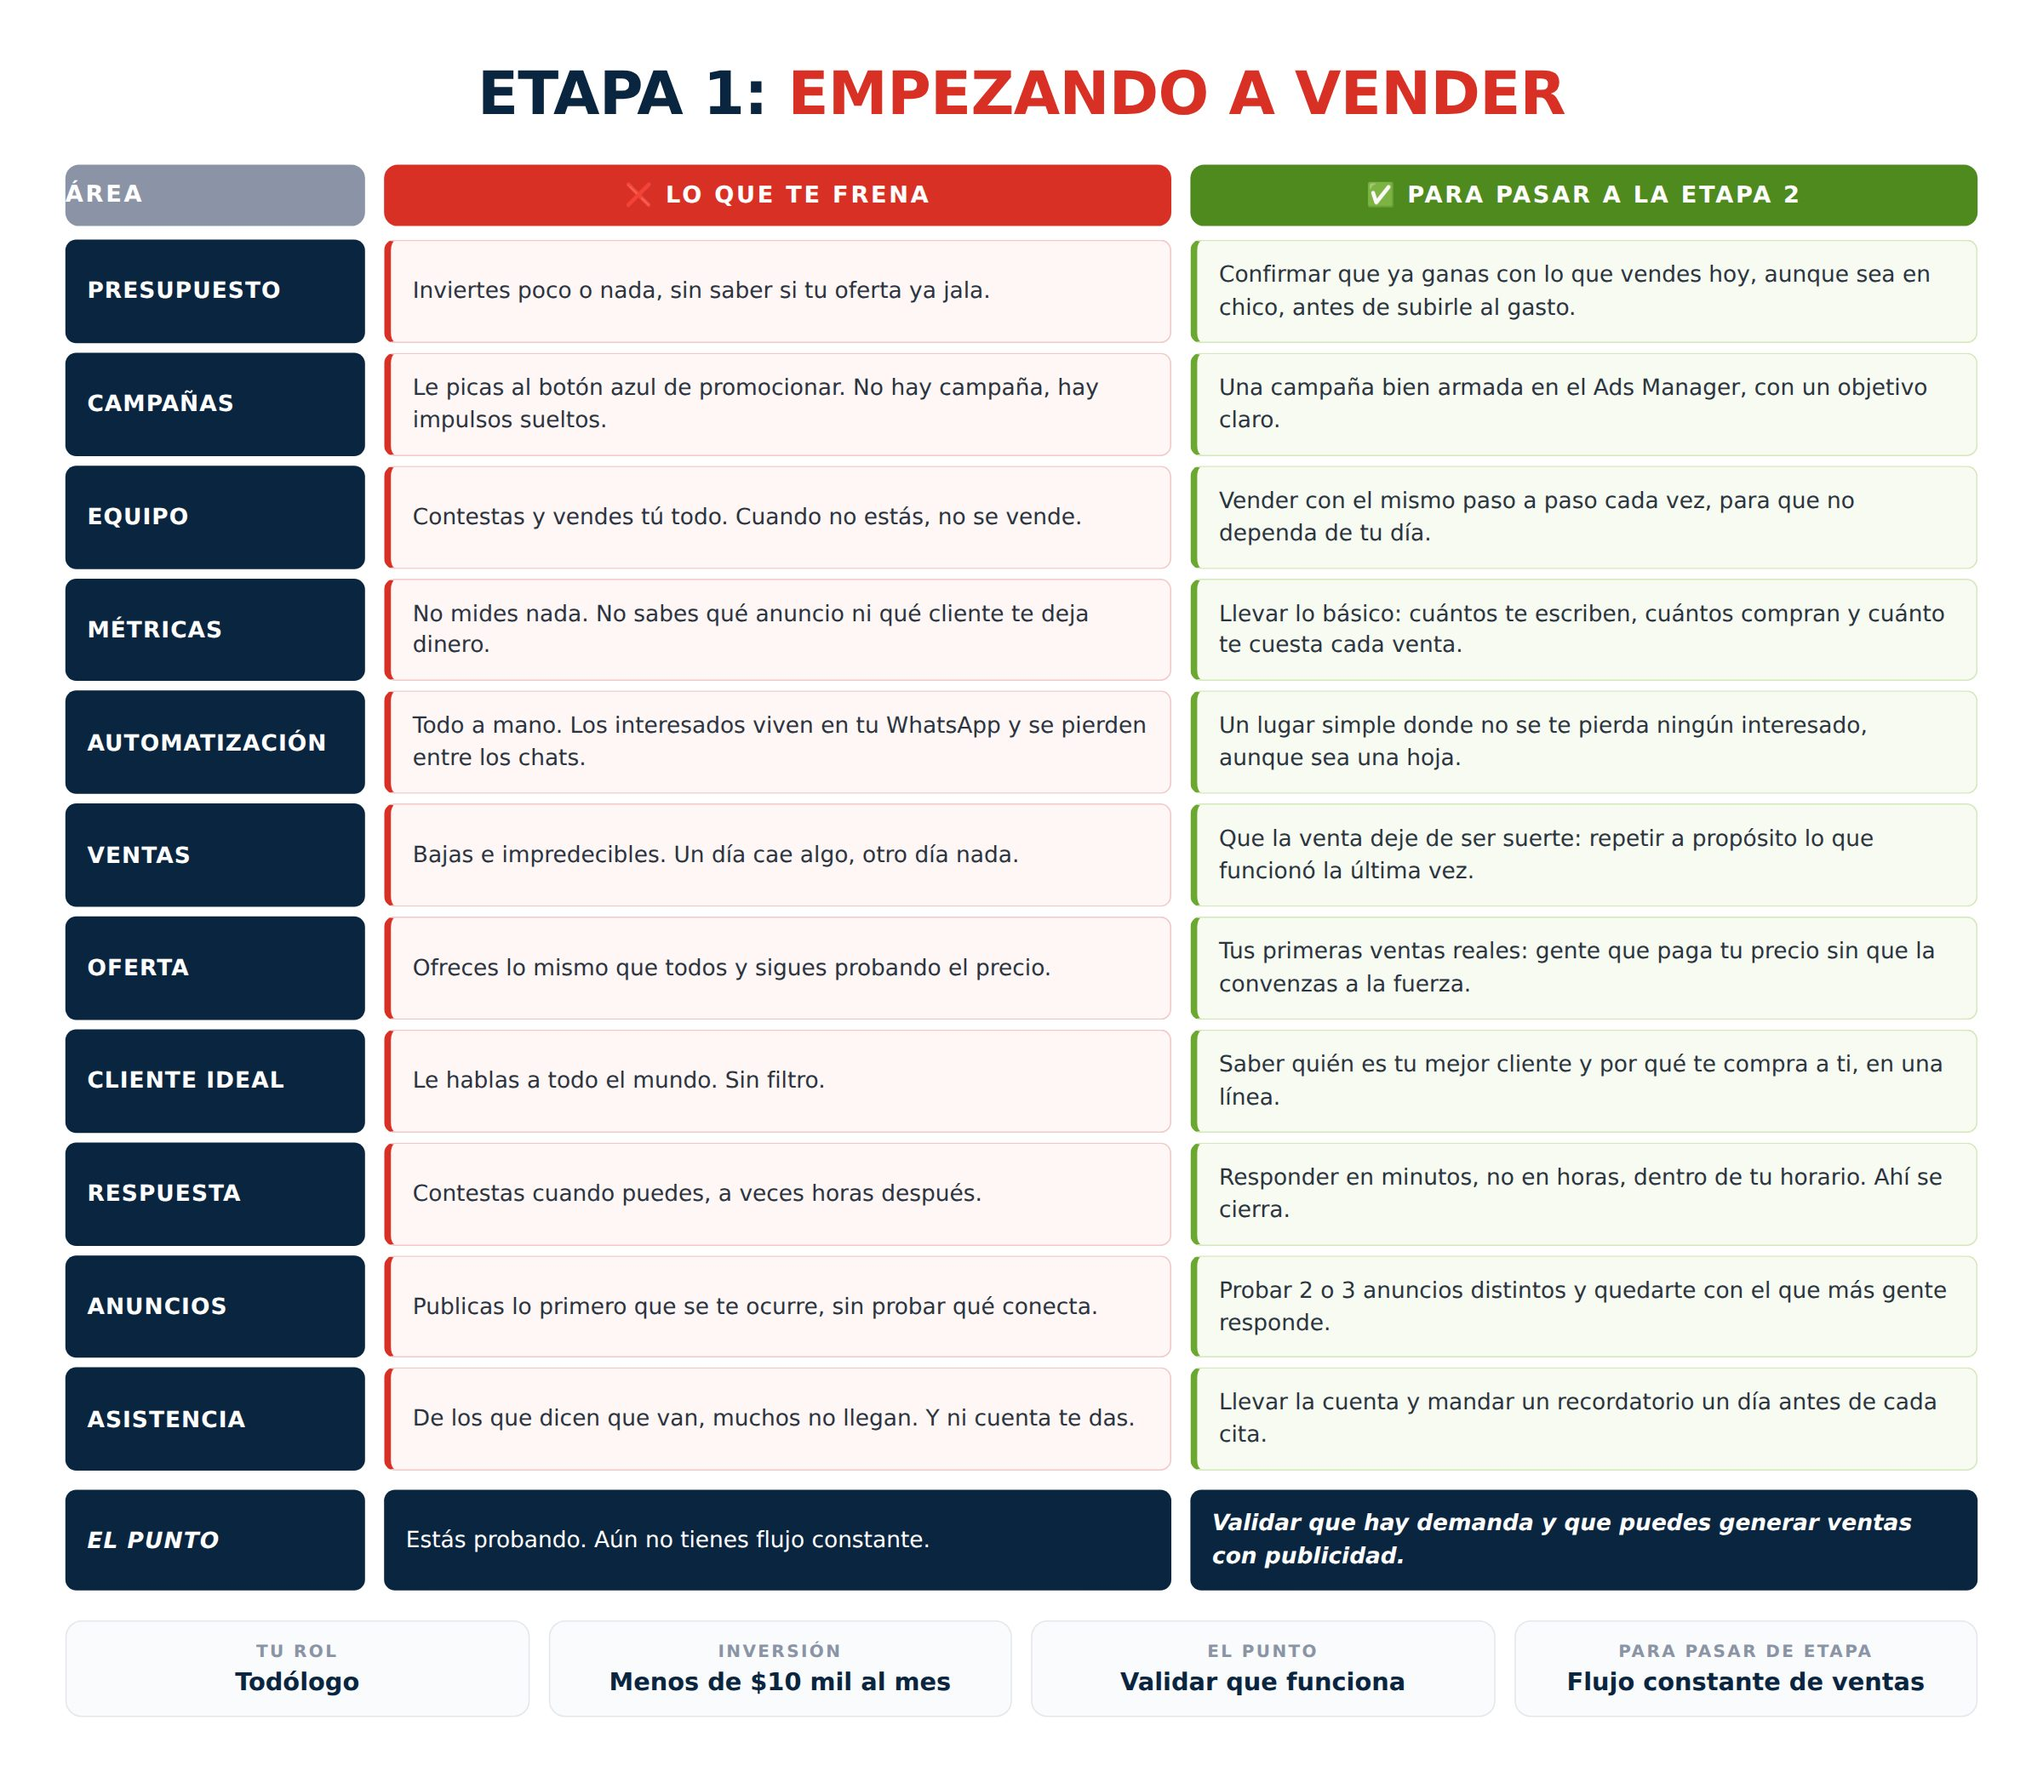
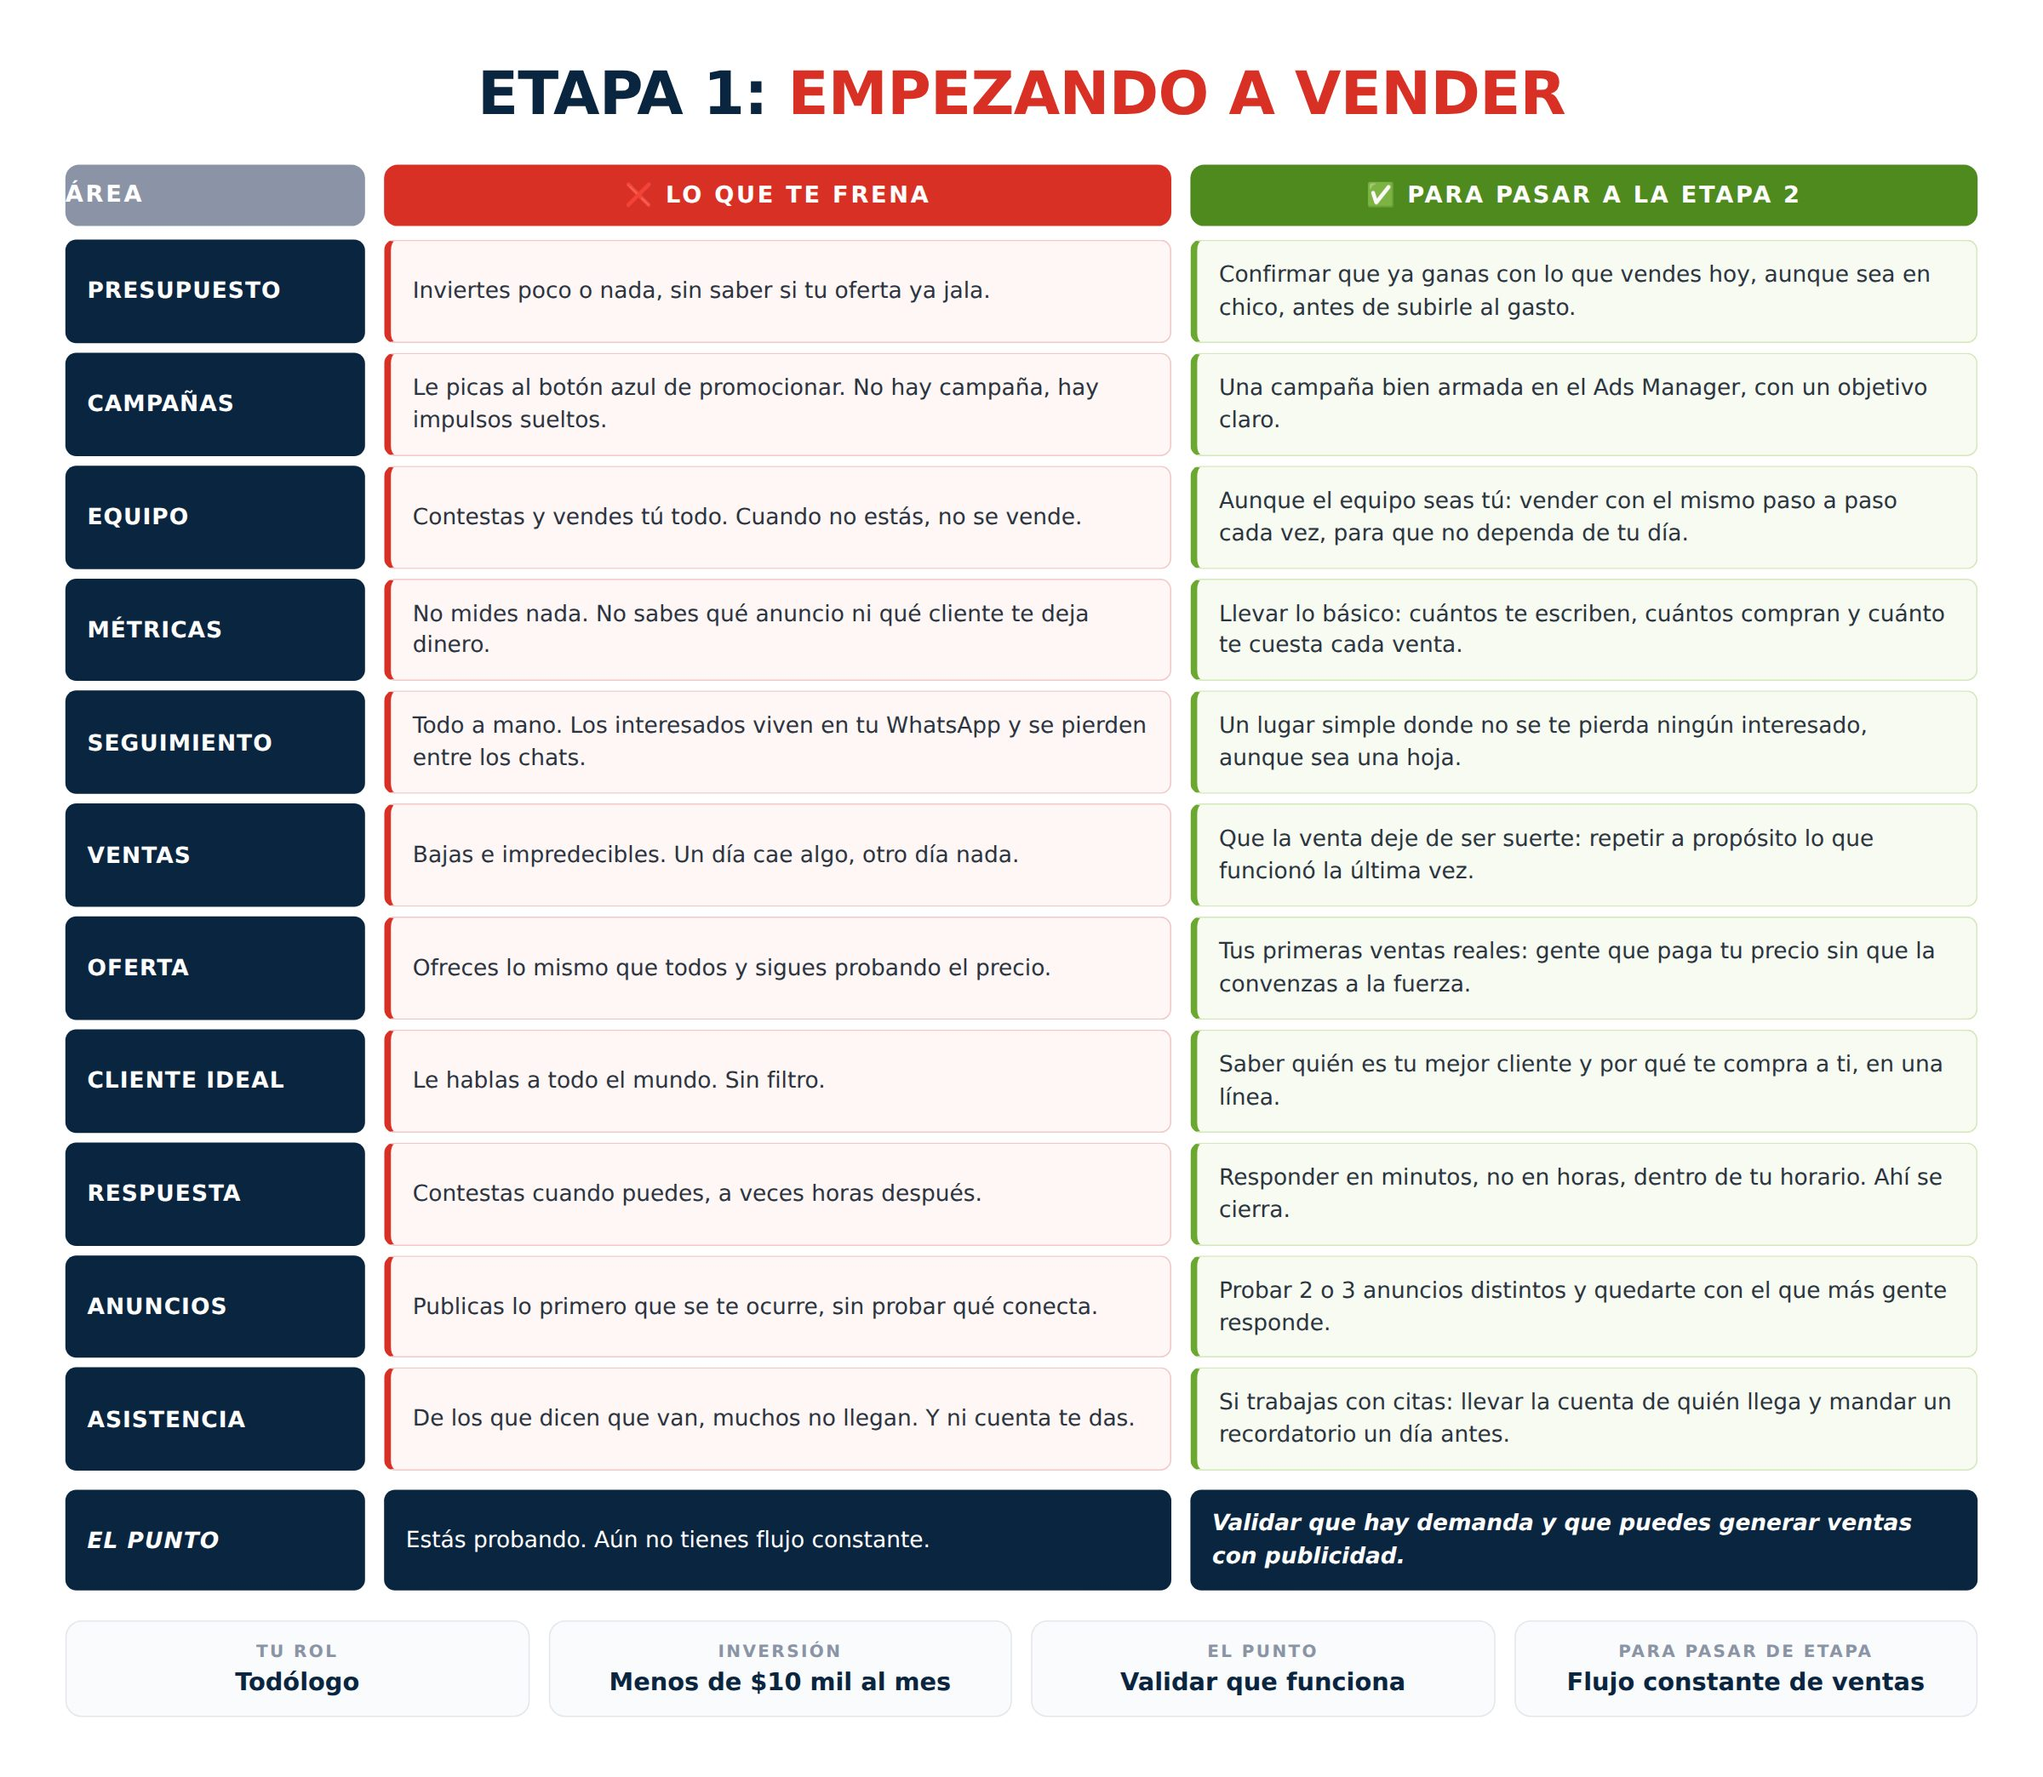
Add files via upload

Changed region(s): [[0.5938, 0.7783, 0.9375, 0.8094], [0.5938, 0.2802, 0.9062, 0.3113], [0.0312, 0.4047, 0.1562, 0.4358]]

diff --git a/v32.html b/v32.html
@@ -533,6 +533,11 @@ body.has-bar{padding-bottom:74px}
 .mapa-scroll img.big{width:220%}
 .mapa-tip{margin:0;padding:8px 12px;text-align:center;color:#fff;font-size:12px;opacity:.85}
 #engrane-root .u-ofhook{margin:4px 0 0;font-size:15px;font-style:italic;color:var(--navy);line-height:1.45}
+#engrane-root .it .ej{margin-top:6px;font-size:13px;line-height:1.45;color:#5b6675}
+#engrane-root .it .ej b{color:var(--navy)}
+#engrane-root .it.tengo .ej{color:#a0a8b4}
+#engrane-root .it .fb{margin-top:8px;font-size:13px;line-height:1.45;color:var(--navy);background:#fff;border:1px dashed #F2C9C9;border-radius:8px;padding:8px 10px}
+#engrane-root .it .fb .fb-go{color:var(--red);font-weight:800;text-decoration:none}
 #engrane-root .u-ofk{font-size:11px;font-weight:800;letter-spacing:.12em;text-transform:uppercase;color:var(--navy);margin:12px 0 3px}
 #engrane-root .u-oftx{margin:0;font-size:15px;line-height:1.55;color:var(--ink)}
 #engrane-root .u-offor{margin-top:10px;padding:10px 12px;background:rgba(10,37,64,.04);border-radius:10px;font-size:14px}
@@ -644,7 +649,7 @@ const CONFIG = {
         <h3 class="chk-h">Tu checklist para pasar a la etapa 2</h3>
         <p class="chk-sub">Es la columna derecha de tu mapa, en lista.</p>
         <p class="chk-prog" id="chkProg"></p>
-        <div class="chk-how"><b>Cómo se usa:</b> en cada punto toca <span class="mini-t">Ya lo tengo</span> o <span class="mini-a">Quiero ayuda</span>. Regresa cuando quieras: aquí se te guarda. El mapa también va en tu correo.</div>
+        <div class="chk-how"><b>Cómo se usa:</b> en cada punto toca <span class="mini-t">Ya lo resolví</span> o <span class="mini-a">Ayúdame con esto</span>. Regresa cuando quieras: aquí se te guarda. El mapa también va en tu correo.</div>
         <div class="chl" id="chkList"></div>
         <div class="pide-res" id="pideRes"></div>
       </div>
@@ -720,7 +725,7 @@ const QUIZ = [
  {id:"b4_metricas", area:"Métricas", q:"¿Cuáles de estos números me puedes decir ahorita, sin buscarlos?", multi:true,
   items:["Cuánto me cuesta un cliente que paga (no un mensaje)","De cada 10 que me escriben, cuántos compran","Cuántas veces recupero lo que meto en ads","De cada venta, de qué anuncio salió","Cuánto me queda limpio al final"],
   opts:["No mido nada","Solo cuántos leads y cuántas ventas","Costo por lead y por cliente, pero no cuánto me deja cada cliente","Tengo control completo de mis números"]},
- {id:"b5_automatizacion", area:"Automatización", q:"El seguimiento a los que te escriben, ¿cómo lo llevas?",
+ {id:"b5_automatizacion", area:"Seguimiento", q:"El seguimiento a los que te escriben, ¿cómo lo llevas?",
   opts:["Todo a mano, me acuerdo o lo apunto","Lo llevo en un Google Sheet o parecido, sin CRM","Tengo un CRM básico","Tengo un CRM con seguimiento automático"]},
  {id:"b6_ventas", area:"Ventas", q:"¿Puedes saber más o menos cuánto vas a vender el mes que entra?",
   opts:["Ni idea, cada mes es distinto","Más o menos, pero con altibajos","Buen volumen, pero con picos y valles","Sí, le atino"]},
@@ -1878,17 +1883,17 @@ function laLectura(real,tg,tr){
 }
 /* ---- Checklist Etapa 1 (mapa en lista) ---- */
 const CHK1=[
- {area:'Presupuesto',text:'Confirmar que ya ganas con lo que vendes hoy, aunque sea en chico, antes de subirle al gasto.'},
- {area:'Campañas',text:'Una campaña bien armada en el Ads Manager, con un objetivo claro.'},
- {area:'Equipo',text:'Vender con el mismo paso a paso cada vez, para que no dependa de tu día.'},
- {area:'Métricas',text:'Llevar lo básico: cuántos te escriben, cuántos compran y cuánto te cuesta cada venta.'},
- {area:'Automatización',text:'Un lugar simple donde no se te pierda ningún interesado, aunque sea una hoja.'},
- {area:'Ventas',text:'Que la venta deje de ser suerte: repetir a propósito lo que funcionó la última vez.'},
- {area:'Oferta',text:'Tus primeras ventas reales: gente que paga tu precio sin que la convenzas a la fuerza.'},
- {area:'Cliente ideal',text:'Saber quién es tu mejor cliente y por qué te compra a ti, en una línea.'},
- {area:'Respuesta',text:'Responder en minutos, no en horas, dentro de tu horario. Ahí se cierra.'},
- {area:'Anuncios',text:'Probar 2 o 3 anuncios distintos y quedarte con el que más gente responde.'},
- {area:'Asistencia',text:'Llevar la cuenta y mandar un recordatorio un día antes de cada cita.'}
+ {area:'Presupuesto',text:'Confirmar que ya ganas con lo que vendes hoy, aunque sea en chico, antes de subirle al gasto.',ej:'Vendes 20 piezas al mes a $500 y te quedan $150 de cada una. Eso ya da para meterle $3 mil a anuncios sin perder.'},
+ {area:'Campañas',text:'Una campaña bien armada en el Ads Manager, con un objetivo claro.',ej:'En vez de "Promocionar publicación", una campaña en el Ads Manager con objetivo "Mensajes", un anuncio y un presupuesto diario fijo.'},
+ {area:'Equipo',text:'Aunque el equipo seas tú: vender con el mismo paso a paso cada vez, para que no dependa de tu día.',ej:'Cada vez que alguien escribe: saludo, una pregunta para saber qué necesita, precio, y ofrecer cerrar. Siempre igual, aunque estés cansado.'},
+ {area:'Métricas',text:'Llevar lo básico: cuántos te escriben, cuántos compran y cuánto te cuesta cada venta.',ej:'Una hoja con tres columnas: cuántos te escribieron esta semana, cuántos compraron y cuánto gastaste en anuncios. Divides y ya sabes lo que te cuesta cada venta.'},
+ {area:'Seguimiento',text:'Un lugar simple donde no se te pierda ningún interesado, aunque sea una hoja.',ej:'Una hoja de Excel con nombre, teléfono, qué preguntó y si compró. Se llena cada noche en 5 minutos.'},
+ {area:'Ventas',text:'Que la venta deje de ser suerte: repetir a propósito lo que funcionó la última vez.',ej:'La semana que más vendiste, ¿qué hiciste distinto? ¿Qué anuncio, qué precio, qué mensaje? Eso se repite a propósito la siguiente.'},
+ {area:'Oferta',text:'Tus primeras ventas reales: gente que paga tu precio sin que la convenzas a la fuerza.',ej:'Diez personas que pagaron tus $800 por el paquete sin pedir descuento. Si todas piden rebaja, la oferta todavía no está.'},
+ {area:'Cliente ideal',text:'Saber quién es tu mejor cliente y por qué te compra a ti, en una línea.',ej:'Mujer de 30 a 45, de tu zona, que ya probó otras cosas y no le funcionaron. Te compra porque le dices la verdad de qué sí sirve.'},
+ {area:'Respuesta',text:'Responder en minutos, no en horas, dentro de tu horario. Ahí se cierra.',ej:'Si escribe a las 11 de la mañana, le contestas antes de las 11:10. Si escribe a las 10 de la noche, le contestas a primera hora.'},
+ {area:'Anuncios',text:'Probar 2 o 3 anuncios distintos y quedarte con el que más gente responde.',ej:'Un anuncio hablando del precio, otro del resultado y otro del miedo de que salga mal. A la semana ves cuál trajo más mensajes.'},
+ {area:'Asistencia',text:'Si trabajas con citas: llevar la cuenta de quién llega y mandar un recordatorio un día antes.',ej:'De 10 que agendan, apuntas cuántos llegaron. Y un día antes: "Hola, te espero mañana a las 4, ¿confirmas?"'}
 ];
 function chk1Load(){
  try{ const raw=localStorage.getItem('as_chk_1'); const o=raw?JSON.parse(raw):{}; return (o&&typeof o==='object')?o:{}; }catch(e){ return {}; }
@@ -1920,9 +1925,9 @@ function renderChecklist1(firstAny){
    const isStart=startIdx.indexOf(i)>=0;
    const startSpan=isStart?' <span class="chk-start">← Empieza por aquí</span>':'';
    const stateCls=on?' tengo':(ay?' ayuda':'');
-   return `<div class="it${stateCls}${isStart?' start':''}" data-i="${i}"><div class="tx"><b>${c.area}:</b> ${c.text}${startSpan}</div><div class="acts"><button type="button" class="act tengo" data-act="tengo">${on?'✓ Ya lo tengo':'Ya lo tengo'}</button><button type="button" class="act ayuda" data-act="ayuda">${ay?'✓ Quiero ayuda':'Quiero ayuda'}</button></div></div>`;
+   return `<div class="it${stateCls}${isStart?' start':''}" data-i="${i}"><div class="tx"><b>${c.area}:</b> ${c.text}${startSpan}${c.ej?`<div class="ej"><b>Ejemplo:</b> ${c.ej}</div>`:''}</div><div class="acts"><button type="button" class="act tengo" data-act="tengo">${on?'✓ Ya lo resolví':'Ya lo resolví'}</button><button type="button" class="act ayuda" data-act="ayuda">${ay?'✓ Ayúdame con esto':'Ayúdame con esto'}</button></div>${ay?(PIDE_COVERED.indexOf(c.area)>=0?`<div class="fb">Esto viene en la guía de etapa 1, ya la puedes apartar. <a href="#unica" class="fb-go">Ver la guía ↓</a></div>`:`<div class="fb">Anotado. En cuanto junte a los que piden esto, hago la guía y te aviso a tu correo.</div>`):''}</div>`;
   }).join('');
-  prog.innerHTML=`Ya tienes <b>${n}</b> de 11 · Pediste ayuda en <b>${nAyuda}</b>`;
+  prog.innerHTML=`Ya resolviste <b>${n}</b> de 11 · Pediste ayuda en <b>${nAyuda}</b>`;
   try{ renderPide(); }catch(e){ console.warn('pide',e); }
  }
  paint();
@@ -1945,7 +1950,7 @@ function renderChecklist1(firstAny){
   paint();
  };
 }
-/* ---- Pide (resultado según filas marcadas "Quiero ayuda") Etapa 1 ---- */
+/* ---- Pide (resultado según filas marcadas "Ayúdame con esto") Etapa 1 ---- */
 const PIDE_COVERED=['Cliente ideal','Oferta','Anuncios'];
 function pideSlug(area){
  return area.toString().normalize('NFD').replace(/[̀-ͯ]/g,'').toLowerCase().replace(/[^a-z0-9]+/g,'-').replace(/^-+|-+$/g,'');
@@ -1963,18 +1968,23 @@ function renderPide(){
  const COV=marked.filter(i=>PIDE_COVERED.indexOf(CHK1[i].area)>=0);
  const OTR=marked.filter(i=>PIDE_COVERED.indexOf(CHK1[i].area)<0);
  const n=marked.length;
+ const goHtml=`<a class="pide-go" href="#unica">Ver la guía ↓</a>`;
+ function wireGo(){ const go=resEl.querySelector('.pide-go'); if(go) go.onclick=function(e){ e.preventDefault(); const u=document.getElementById('unica'); if(u) u.scrollIntoView({behavior:'smooth'}); }; }
  if(COV.length>0 && OTR.length===0){
-  resEl.innerHTML=`<p class="pide-ok">${COV.length===1?'Esa':'Esas '+COV.length} ya ${COV.length===1?'la':'las'} cubre la guía de etapa 1. Ya la puedes apartar aquí abajo.</p><a class="pide-go" href="#unica">Ver la guía ↓</a>`;
-  const go=resEl.querySelector('.pide-go');
-  if(go) go.onclick=function(e){ e.preventDefault(); const u=document.getElementById('unica'); if(u) u.scrollIntoView({behavior:'smooth'}); };
-  return;
+  resEl.innerHTML=`<p class="pide-ok">${COV.length===1?'Lo que pediste viene':'Las '+COV.length+' que pediste vienen'} en la guía de etapa 1. Apártala hoy.</p>${goHtml}`;
+  wireGo(); return;
  }
- if(OTR.length>0){
-  const slugs=marked.map(i=>pideSlug(CHK1[i].area)).join(',');
-  const msg = n===1
-   ? `Te avisamos en cuanto salga la guía de ${CHK1[marked[0]].area}.`
-   : `Te armamos el paquete con ${n} que marcaste${COV.length?': '+COV.length+' ya '+(COV.length===1?'está':'están')+' en la guía de etapa 1, y te avisamos cuando salgan las demás':''}.`;
-  resEl.innerHTML=`<p class="pide-ok">${msg}</p><button type="button" class="lq pide-btn" data-wl="paquete" data-areas="${slugs}">Apartar mi paquete →</button>`;
+ const slugs=marked.map(i=>pideSlug(CHK1[i].area)).join(',');
+ const otrNames=OTR.map(i=>CHK1[i].area).join(', ');
+ let msg;
+ if(COV.length){
+  msg=`De las ${n} que pediste, ${COV.length===1?'una viene':COV.length+' vienen'} en la guía de etapa 1: apártala hoy. ${OTR.length===1?'La otra':'Las otras '+OTR.length} (${otrNames}) te ${OTR.length===1?'la':'las'} aviso a tu correo en cuanto ${OTR.length===1?'salga':'salgan'}.`;
+  resEl.innerHTML=`<p class="pide-ok">${msg}</p>${goHtml}<br><button type="button" class="lq pide-btn" data-wl="paquete" data-areas="${slugs}">Apartar mi paquete de ${n} →</button>`;
+  wireGo();
+ } else {
+  msg = n===1 ? `Anotado: ${CHK1[marked[0]].area}. En cuanto junte a los que piden esto, hago la guía y te aviso a tu correo.`
+              : `Anotado: ${otrNames}. Te armo el paquete con esas ${n} y te aviso a tu correo en cuanto salgan.`;
+  resEl.innerHTML=`<p class="pide-ok">${msg}</p><button type="button" class="lq pide-btn" data-wl="paquete" data-areas="${slugs}">${n===1?'Avísame cuando salga →':'Apartar mi paquete de '+n+' →'}</button>`;
  }
 }
 function render(levels){
@@ -2175,6 +2185,7 @@ function cerrarMapa(){
   var lb=document.getElementById('mapaLb'); if(lb) lb.classList.remove('on');
   document.body.style.overflow='';
 }
+document.addEventListener('click',function(e){var a=e.target.closest('a.fb-go');if(!a)return;e.preventDefault();var u=document.getElementById('unica');if(u)u.scrollIntoView({behavior:'smooth'});});
 </script>
 </body>
 </html>
